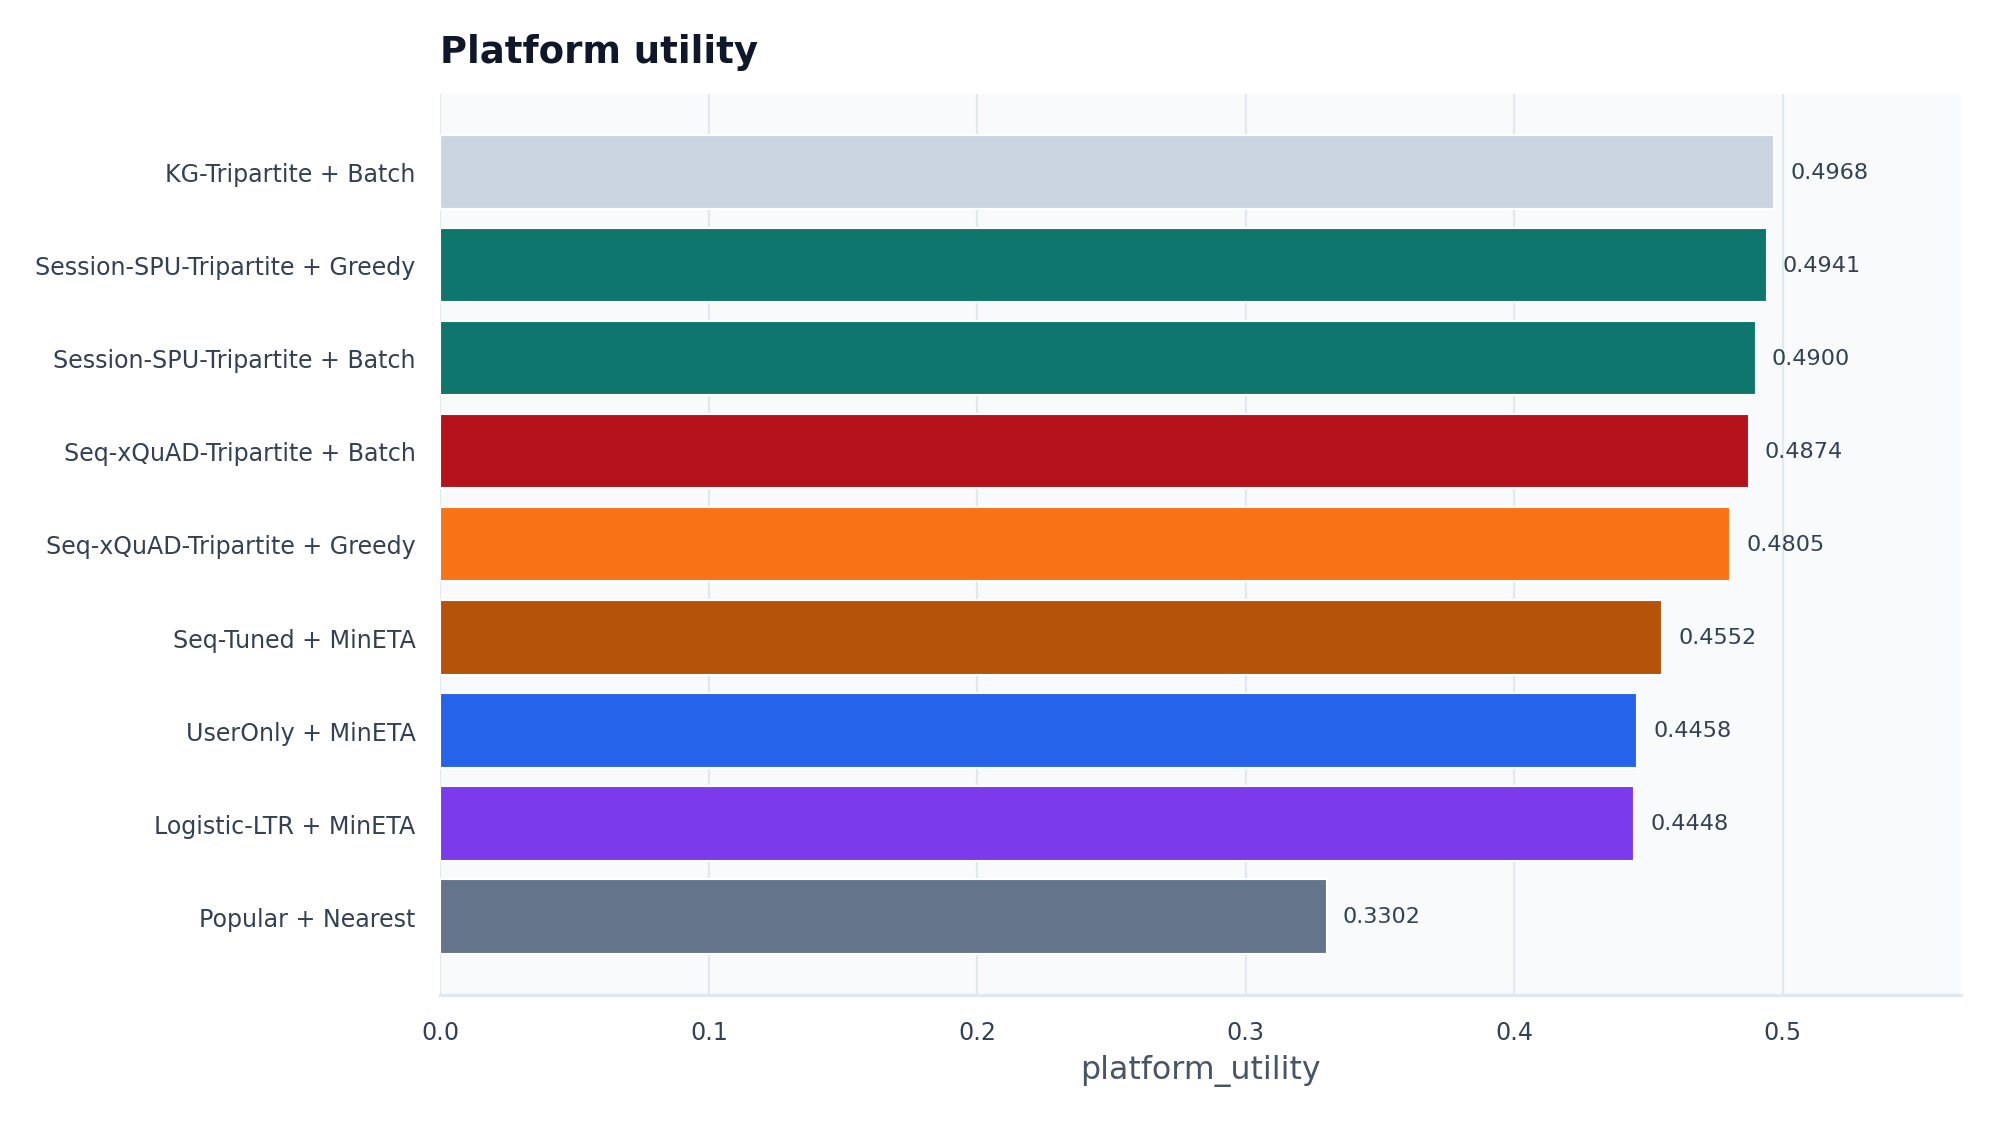
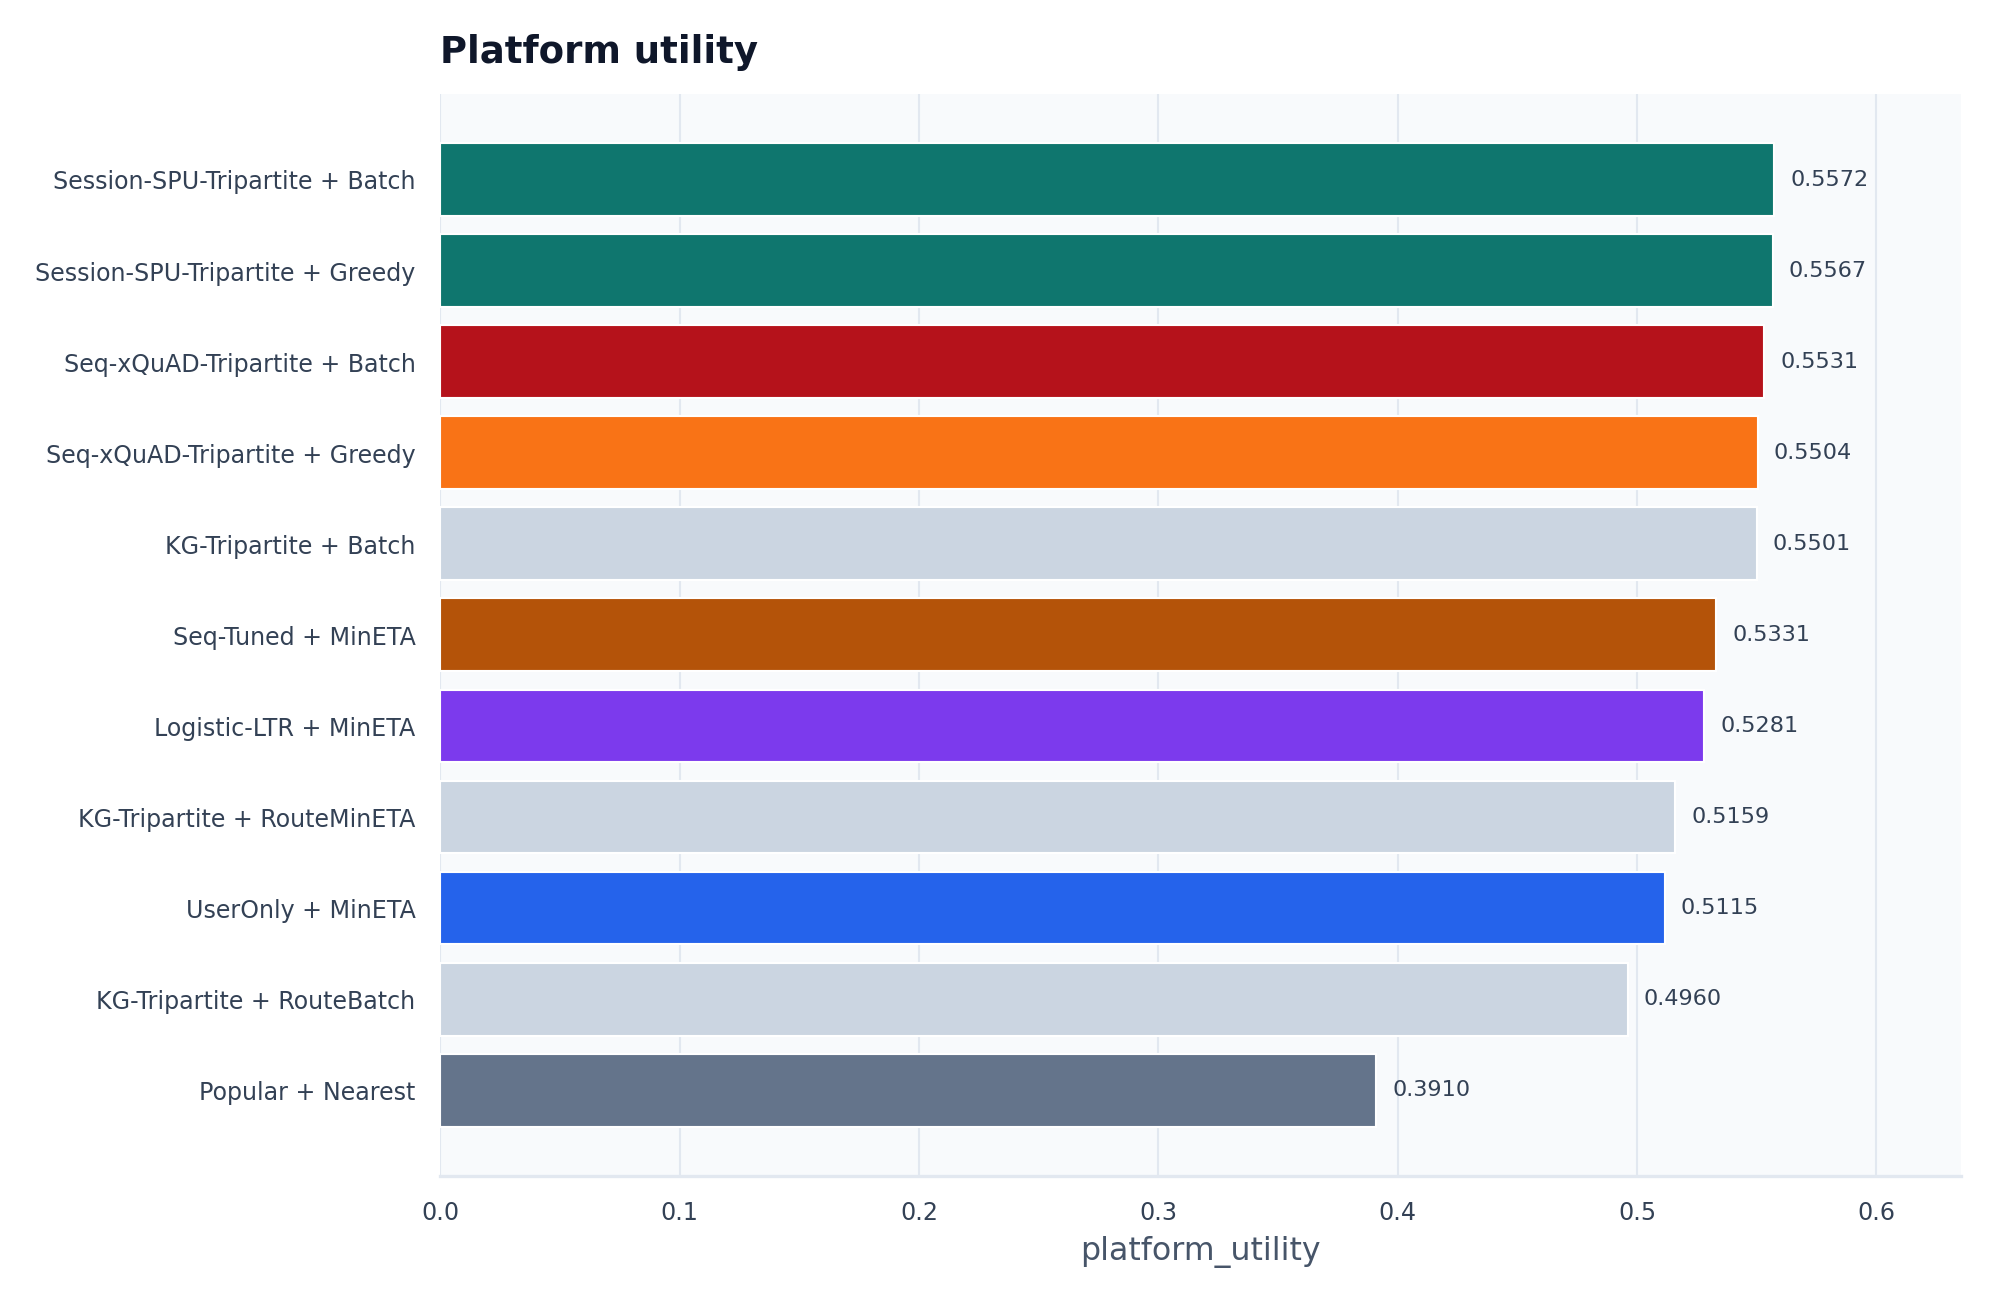
Refresh results on real geography: two-scenario simulation with CI
- offline_metrics: KG-Tripartite best tripartite variant on real geography
  (Recall@10 0.4048 vs Seq-Tuned 0.4187 accuracy frontier)
- simulation_metrics (120 riders, 10 seeds): tripartite+Batch reaches
  ~36 min avg ETA / ~20% timeout on Yantai urban core
- simulation_metrics_peak_stress (30 riders, 10 seeds): route-insertion
  dispatch wins decisively — RouteMinETA 49.4 vs 61.0 min best slot-batch,
  timeout 0.55 vs 0.68, en-route pickup share 65.5%
- LaDe calibration diagnostics regenerated from real Yantai parquet
  (lognormal duration fit KS 0.054; domain mismatch honestly recorded)
- report gains stress-scenario section; README/guide headline numbers updated

diff --git a/docs/PRESENTATION_DEMO_GUIDE.md b/docs/PRESENTATION_DEMO_GUIDE.md
@@ -8,9 +8,10 @@
 
 PPT 开场可以先给出 3 个结论，后面逐页证明：
 
-1. 推荐侧有效：在真实 TRD 全量训练订单上，`Seq-Tuned` 的 Recall@20 达到 `0.4675`，NDCG@20 达到 `0.3652`，明显优于 Popular 和 BPR-MF。
-2. 三方重排有效：`Seq-xQuAD-Tripartite-Batch` 在默认骑手仿真中取得最低 Avg ETA `45.68`、最低 Timeout Rate `0.45` 和最高 Platform Utility `0.5281`。
-3. LaDe 已经被真实使用：项目用 Hugging Face 的真实 LaDe `delivery_five_cities.csv` 校准骑手参数；Raw LaDe 作为跨领域压力测试，`food-scaled` LaDe 保留负载/可靠性并重标定到外卖 SLA，适合展示策略差异。
+1. 推荐侧有效：在真实 TRD 全量训练订单上，`Seq-Tuned` 的 Recall@10 达到 `0.4187`；三方系列中 `KG-Tripartite`（叠加知识图谱兴趣信号）以 Recall@10 `0.4048` 接近纯精度模型，同时保留公平与履约分量。
+2. 三方重排有效（10 种子 ±95% CI）：常规运力下 `Seq-xQuAD/Session-SPU/KG-Tripartite + Batch` 把平均 ETA 压到约 36 分钟、超时率约 20%，显著优于纯用户侧策略（约 40.4 分钟 / 29%）。
+3. 顺路派单是高峰韧性机制：运力紧张场景（30 骑手）下 `KG-Tripartite + RouteMinETA` 平均 ETA `49.4` 分钟，比最好的槽位匹配低约 11.5 分钟、超时率 `0.55` vs `0.68`，顺路接单率 `65.5%`——运力充足时分散派单更优，机制应随供需切换。
+4. LaDe 被双重真实使用：真实城市地理（烟台核心区配送 GPS 密度，`make geocode`）+ 骑手参数校准（校准诊断 JSON 含参数来源标注与 KS 检验）。
 
 现场建议讲法：
 
@@ -41,10 +42,10 @@ PPT 开场可以先给出 3 个结论，后面逐页证明：
 
 ### LaDe 末端配送数据
 
-LaDe 是公开工业末端配送数据。论文/数据说明中给出的量级是约 6 个月、10,677k 包裹、21k 配送员，并包含 task-accept、task-finish 一类时空事件。我们实际运行的是 Hugging Face 上较轻的合并文件：
+LaDe 是公开工业末端配送数据。论文/数据说明中给出的量级是约 6 个月、10,677k 包裹、21k 配送员，并包含 task-accept、task-finish 一类时空事件。当前运行使用 Hugging Face `Cainiao-AI/LaDe-D` 的烟台城市文件（同时用于真实地理与骑手校准）：
 
 ```text
-/private/tmp/lade/delivery_five_cities.csv
+data/lade/delivery_yt.parquet   # 206,431 条真实配送任务，WGS84 坐标
 ```
 
 实际文件统计：
@@ -132,17 +133,27 @@ final_score = user_preference
 - `outputs/figures/tradeoff_ndcg_gini.png`
 - `outputs/figures/tradeoff_recall_coverage.png`
 
-### 默认骑手仿真结果
+### 默认骑手仿真结果（真实烟台地理，10 种子均值 ±95% CI，120 骑手）
 
 | 策略 | Avg ETA | Timeout Rate | Platform Utility | 讲法 |
 |---|---:|---:|---:|---|
-| Popular + Nearest | 63.98 | 0.6364 | 0.3791 | 只看热门和最近骑手，整体差 |
-| UserOnly + MinETA | 52.13 | 0.7011 | 0.4531 | 用户侧变好，但超时仍高 |
-| Seq-Tuned + MinETA | 50.84 | 0.7158 | 0.4534 | 推荐准确强，不等于履约最好 |
-| LightGBM-LTR + MinETA | 51.00 | 0.7021 | 0.4587 | 排序学习链路 |
-| Seq-xQuAD-Tripartite | 46.70 | 0.5250 | 0.5117 | 三方重排显著改善系统级指标 |
-| Seq-xQuAD-Tripartite-Batch | 45.68 | 0.4500 | 0.5281 | 当前默认结果中的综合最优 |
-| Session-SPU-Tripartite | 48.96 | 0.5412 | 0.5118 | 引入 session/SPU 后接近主线三方策略 |
+| Popular + Nearest | 59.06 ±2.28 | 0.579 | 0.391 | 只看热门和最近骑手，整体差 |
+| Seq-Tuned + MinETA | 40.44 ±1.21 | 0.287 | 0.533 | 推荐准确强，不等于履约最好 |
+| Seq-xQuAD-Tripartite + Batch | 35.90 ±1.88 | 0.195 | 0.553 | 三方重排+批量匹配显著改善履约 |
+| Session-SPU-Tripartite + Batch | 36.79 ±1.25 | 0.199 | 0.557 | session/SPU 信号，平台效用最高 |
+| KG-Tripartite + Batch | 36.90 ±1.04 | 0.211 | 0.550 | 知识图谱兴趣信号 + 离线精度最强的三方 |
+| KG-Tripartite + RouteMinETA | 39.04 ±1.18 | 0.316 | 0.516 | 顺路机制在充足运力下诚实略慢 |
+
+### 运力紧张压力场景（30 骑手，`make simulate-stress`）——顺路派单的主战场
+
+| 策略 | Avg ETA | Timeout Rate | Platform Utility | 讲法 |
+|---|---:|---:|---:|---|
+| Seq-Tuned + MinETA | 76.64 ±2.46 | 0.819 | 0.442 | 高峰爆单时纯用户侧全面恶化 |
+| Seq-xQuAD-Tripartite + Batch | 60.96 ±4.84 | 0.679 | 0.486 | 槽位匹配有帮助但仍拥堵 |
+| KG-Tripartite + RouteMinETA | **49.43 ±1.68** | **0.552** | **0.529** | 顺路合单：ETA 低 11.5 分钟，顺路率 65.5% |
+| KG-Tripartite + RouteBatch | 51.94 ±1.86 | 0.589 | 0.519 | 绕行+ETA 等权目标，车队里程更省 |
+
+一句话讲法：**顺路派单不是永远更快，而是高峰运力吃紧时的韧性机制**——与商家侧"高峰爆单风险"面板构成同一个故事。
 
 图表建议：
 

diff --git a/README.md b/README.md
@@ -257,23 +257,31 @@ make notebooklm-pack
 
 当前提交的结果已经使用完整 TRD `orders_train.txt`，数据审计显示原始训练订单 `1,068,495` 条，处理后训练订单 `1,068,495` 条，训练订单使用比例 `1.0000`。
 
-离线推荐中，`Seq-Tuned` 的 Recall@10 最高，为 `0.4187`（NDCG@10 `0.3504`，HitRate@10 `0.5800`），代表纯用户侧准确率前沿。三方系列中 `KG-Tripartite` 表现最好：Recall@10 `0.4136`、NDCG@10 `0.3429`、HitRate@10 `0.5700`，在保留商家公平、ETA 和供给分量的同时几乎追平纯精度导向的序列模型；`Seq-xQuAD-Tripartite` 与 `Session-SPU-Tripartite` 的 Recall@10 均为 `0.3987`。
+离线推荐中，`Seq-Tuned` 的 Recall@10 最高，为 `0.4187`（NDCG@10 `0.3504`，HitRate@10 `0.5800`），代表纯用户侧准确率前沿。三方系列中 `KG-Tripartite` 表现最好：Recall@10 `0.4048`、NDCG@10 `0.3412`、HitRate@10 `0.5633`，在保留商家公平、ETA 和供给分量的同时接近纯精度导向的序列模型。
 
-动态履约仿真采用 10 个随机种子重复运行，报告均值与 95% 置信区间（完整 `_std`/`_ci95` 列见 `outputs/results/simulation_metrics.csv`）。`KG-Tripartite + Batch` 在平均 ETA、超时率和平台综合效用上全面领先：
+动态履约仿真在真实城市地理（LaDe 烟台核心区）上采用 10 个随机种子重复运行，报告均值与 95% 置信区间（完整 `_std`/`_ci95` 列见 `outputs/results/simulation_metrics.csv`）。**常规运力场景（120 骑手）**下，三方重排 + 批量槽位匹配把平均 ETA 压到约 36 分钟、超时率约 20%：
 
 | 策略 | Avg ETA (±CI95) | Timeout Rate (±CI95) | Platform Utility (±CI95) |
 |---|---:|---:|---:|
-| Popular + Nearest | 81.76 ±4.00 | 0.782 ±0.023 | 0.330 ±0.007 |
-| UserOnly + MinETA | 50.05 ±1.54 | 0.593 ±0.046 | 0.446 ±0.014 |
-| Seq-Tuned + MinETA | 49.32 ±1.33 | 0.568 ±0.043 | 0.455 ±0.015 |
-| Logistic-LTR + MinETA | 50.59 ±1.13 | 0.605 ±0.035 | 0.445 ±0.012 |
-| Seq-xQuAD-Tripartite + Greedy | 46.91 ±1.27 | 0.482 ±0.043 | 0.481 ±0.015 |
-| Seq-xQuAD-Tripartite + Batch | 45.95 ±1.30 | 0.442 ±0.052 | 0.487 ±0.017 |
-| Session-SPU-Tripartite + Greedy | 46.88 ±1.27 | 0.465 ±0.043 | 0.494 ±0.007 |
-| Session-SPU-Tripartite + Batch | 45.94 ±1.11 | 0.456 ±0.045 | 0.490 ±0.010 |
-| KG-Tripartite + Batch | 45.08 ±1.13 | 0.417 ±0.043 | 0.497 ±0.009 |
+| Popular + Nearest | 59.06 ±2.28 | 0.579 ±0.023 | 0.391 ±0.007 |
+| Seq-Tuned + MinETA | 40.44 ±1.21 | 0.287 ±0.041 | 0.533 ±0.012 |
+| Seq-xQuAD-Tripartite + Batch | 35.90 ±1.88 | 0.195 ±0.036 | 0.553 ±0.009 |
+| Session-SPU-Tripartite + Batch | 36.79 ±1.25 | 0.199 ±0.029 | 0.557 ±0.010 |
+| KG-Tripartite + Batch | 36.90 ±1.04 | 0.211 ±0.033 | 0.550 ±0.011 |
+| KG-Tripartite + RouteMinETA | 39.04 ±1.18 | 0.316 ±0.041 | 0.516 ±0.012 |
+| KG-Tripartite + RouteBatch | 41.67 ±1.27 | 0.382 ±0.044 | 0.496 ±0.014 |
 
-结论不是“单一模型在所有指标上最优”，而是：`Seq-Tuned` 取得最强离线推荐准确性；`LightGBM/Logistic-LTR` 展示学习排序路线；三方重排 + 批量二分图匹配系统性改善履约（三方系列相对纯用户侧策略的 ETA/超时率差距大于 95% 置信区间）；`KG-Tripartite` 在此之上叠加知识图谱兴趣信号，取得当前最优的履约与平台效用组合。
+**运力紧张压力场景（30 骑手，模拟高峰爆单，`make simulate-stress`）**下，路径感知顺路派单反超所有槽位匹配策略——顺路接单率达 65.5%，平均 ETA 比最好的槽位匹配低约 11.5 分钟（远超置信区间）：
+
+| 策略 | Avg ETA (±CI95) | Timeout Rate (±CI95) | Platform Utility (±CI95) |
+|---|---:|---:|---:|
+| Seq-Tuned + MinETA | 76.64 ±2.46 | 0.819 ±0.014 | 0.442 ±0.014 |
+| Seq-xQuAD-Tripartite + Batch | 60.96 ±4.84 | 0.679 ±0.046 | 0.486 ±0.017 |
+| KG-Tripartite + Batch | 61.47 ±2.85 | 0.685 ±0.039 | 0.481 ±0.014 |
+| KG-Tripartite + RouteMinETA | **49.43 ±1.68** | **0.552 ±0.040** | **0.529 ±0.013** |
+| KG-Tripartite + RouteBatch | 51.94 ±1.86 | 0.589 ±0.033 | 0.519 ±0.013 |
+
+结论：`Seq-Tuned` 取得最强离线准确性；三方重排 + 批量匹配在常规运力下系统性改善履约；**顺路派单是高峰运力吃紧时的韧性机制**——运力充足时分散派单更快（route 家族的 ETA 诚实计入队列行进时间），运力紧张时顺路合单大幅降低 ETA 与超时率。派单机制应随供需状态切换，这是三方联合视角的核心论据。
 
 ## 图表示例
 
